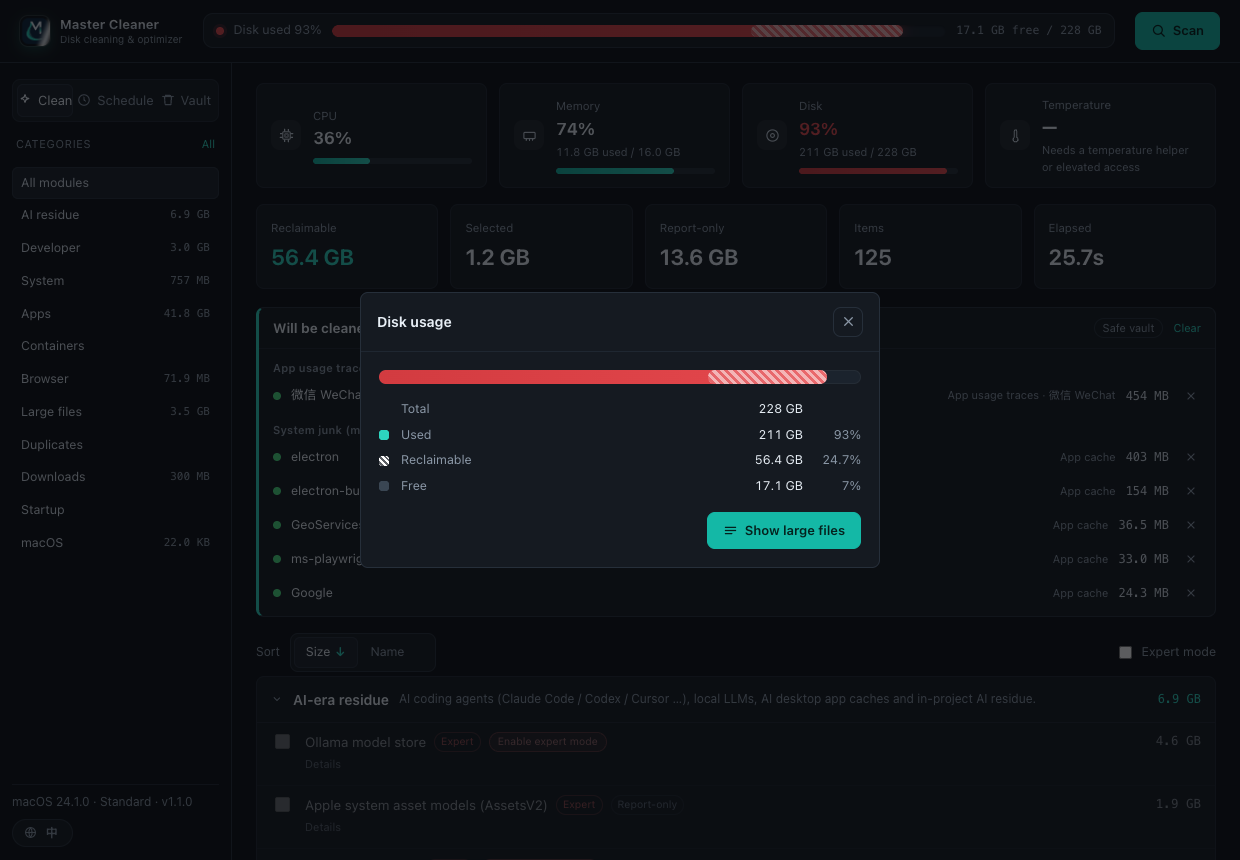
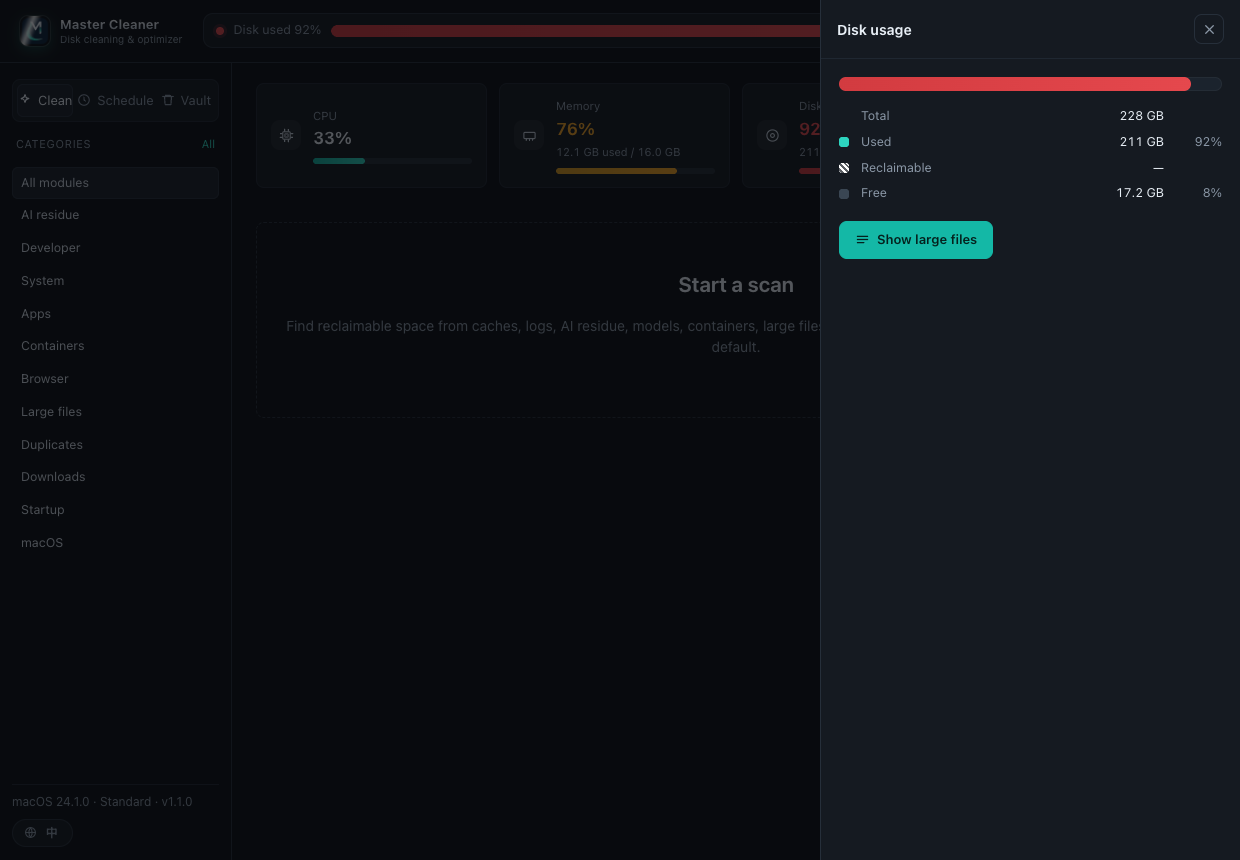
polish: disk details open as a side drawer, drop the hover tooltip panel
- web: remove the panel that floated out when hovering the topbar disk meter; the disk bar now opens details on click, as most desktop tools do.

- web: disk details slide out as a right-hand drawer instead of a centred floating dialog.

- docs: refresh the zh/en disk-detail screenshots for the drawer layout.

diff --git a/web/styles.css b/web/styles.css
@@ -354,7 +354,7 @@ main { padding: 20px 24px 96px; min-width: 0; }
 .actionbar { gap: 14px; }
 .actionbar .sel strong { font-variant-numeric: tabular-nums; }
 
-/* ---------- disk bar (Lemon-style: level colors, reclaim preview, tooltip) ---------- */
+/* ---------- disk bar (level colors + reclaim preview; details open on click) ---------- */
 .disk { position: relative; }
 .disk .meter { position: relative; height: 8px; border-radius: 999px; background: #1b232d; overflow: hidden; cursor: pointer;
   box-shadow: inset 0 0 0 1px rgba(255,255,255,.04); }
@@ -368,14 +368,6 @@ main { padding: 20px 24px 96px; min-width: 0; }
 .disk .meter:focus-visible { outline: 2px solid var(--accent); outline-offset: 3px; }
 .disk .meter:hover > #disk-used { filter: brightness(1.08); }
 
-.disk-tip { position: absolute; left: 0; top: calc(100% + 10px); z-index: 40; min-width: 208px; padding: 10px 12px;
-  background: var(--panel); border: 1px solid var(--border); border-radius: var(--radius); box-shadow: 0 12px 30px rgba(0,0,0,.45);
-  opacity: 0; transform: translateY(-4px); pointer-events: none; transition: opacity .15s, transform .15s; }
-#disk-meter:hover ~ .disk-tip, #disk-meter:focus-visible ~ .disk-tip { opacity: 1; transform: none; }
-.disk-tip .tip-row { display: flex; justify-content: space-between; gap: 16px; font-size: 12px; color: var(--muted); padding: 2px 0; }
-.disk-tip .tip-row b { color: var(--text); font-weight: 600; font-variant-numeric: tabular-nums; }
-.disk-tip .tip-row.accent b { color: var(--accent); }
-.disk-tip .tip-hint { margin-top: 6px; padding-top: 6px; border-top: 1px solid var(--border-soft); font-size: 11px; color: var(--muted); }
 
 /* disk detail modal */
 .disk-panel { width: min(520px, 100%); }
@@ -398,7 +390,7 @@ main { padding: 20px 24px 96px; min-width: 0; }
 .disk-li .k { color: var(--muted); }
 .disk-li .v { color: var(--text); font-variant-numeric: tabular-nums; }
 .disk-li .p { color: var(--muted); font-variant-numeric: tabular-nums; min-width: 48px; text-align: right; }
-.disk-actions { display: flex; justify-content: flex-end; margin-top: 16px; }
+.disk-actions { display: flex; justify-content: flex-start; margin-top: 18px; }
 
 /* ---------- topbar brand + balanced layout ---------- */
 .topbar .brand-mini { padding: 0; gap: 10px; flex: none; }
@@ -514,3 +506,13 @@ main { padding: 20px 24px 96px; min-width: 0; }
 .mon-card.lv-warn .mon-bar > span { background: linear-gradient(90deg, #d99a1f, #f5a524); }
 .mon-card.lv-crit .mon-v { color: #e5484d; }
 .mon-card.lv-crit .mon-bar > span { background: linear-gradient(90deg, #d23b40, #e5484d); }
+
+/* disk details open as a right-hand drawer rather than a centred floating panel */
+#disk-modal { justify-content: flex-end; align-items: stretch; padding: 0; }
+#disk-modal .disk-panel {
+  width: min(420px, 100%); max-height: none; height: 100%;
+  border: 0; border-left: 1px solid var(--border); border-radius: 0;
+  animation: drawerIn .22s ease;
+}
+@keyframes drawerIn { from { transform: translateX(28px); opacity: .55; } to { transform: none; opacity: 1; } }
+@media (prefers-reduced-motion: reduce) { #disk-modal .disk-panel { animation: none; } }

diff --git a/web/app.js b/web/app.js
@@ -138,15 +138,6 @@ function updateDiskBar() {
     else recEl.hidden = true;
   }
   const meterEl = $('#disk-meter'); if (meterEl) meterEl.setAttribute('aria-valuenow', String(pct));
-  const tip = $('#disk-tip');
-  if (tip) {
-    tip.innerHTML = `
-      <div class="tip-row"><span>${esc(T('disk.total'))}</span><b>${esc(d.totalHuman)}</b></div>
-      <div class="tip-row"><span>${esc(T('disk.used'))}</span><b>${esc(d.usedHuman)} \u00b7 ${pct}%</b></div>
-      <div class="tip-row"><span>${esc(T('disk.free'))}</span><b>${esc(d.freeHuman)}</b></div>
-      ${rec > 0 ? `<div class="tip-row accent"><span>${esc(T('disk.reclaim'))}</span><b>${esc(fmt(rec))}</b></div>` : ''}
-      <div class="tip-hint">${esc(T('disk.tipHint'))}</div>`;
-  }
 }
 function openDiskModal() {
   const m = $('#disk-modal');

diff --git a/web/index.html b/web/index.html
@@ -23,7 +23,6 @@
       <span id="disk-reclaim" hidden></span>
     </div>
     <span id="disk-free" class="disk-free muted small">—</span>
-    <div class="disk-tip" id="disk-tip" role="tooltip"></div>
   </div>
   <div class="topbar-actions">
     <button id="btn-scan" class="btn btn-primary" data-i18n-title="scan.title" title="扫描可清理的内容">
